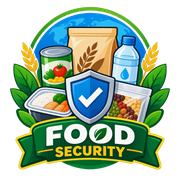
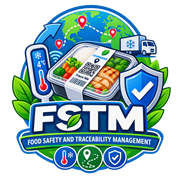
Perbaikan Istilah

diff --git a/index.html b/index.html
@@ -6,14 +6,14 @@
     <link rel="apple-touch-icon" sizes="180x180" href="/apple-touch-icon.png" />
     <meta name="viewport" content="width=device-width, initial-scale=1.0, viewport-fit=cover" />
     <meta name="theme-color" content="#047857" />
-    <meta name="description" content="FSOS — Food Security & Traceability Operations System" />
+    <meta name="description" content="FSTM — Food Safety & Traceability Management" />
     <link rel="preconnect" href="https://fonts.googleapis.com" />
     <link rel="preconnect" href="https://fonts.gstatic.com" crossorigin />
     <link
       href="https://fonts.googleapis.com/css2?family=Plus+Jakarta+Sans:ital,wght@0,400;0,500;0,600;0,700;0,800&family=JetBrains+Mono:wght@400;500;600&display=swap"
       rel="stylesheet"
     />
-    <title>FSOS · Food Security & Traceability</title>
+    <title>FSTM · Food Safety & Traceability Management</title>
   </head>
   <body>
     <div id="app"></div>

diff --git a/src/components/layout/AppSidebar.vue b/src/components/layout/AppSidebar.vue
@@ -39,8 +39,8 @@ function isActive(to: string) {
     <!-- Brand -->
     <div class="flex h-16 shrink-0 items-center gap-3 px-4">
       <img
-        src="/logo-fsos.png"
-        alt="Logo Food Security"
+        src="/logo-fstm.png"
+        alt="Logo Food Safety & Traceability Management"
         class="size-11 shrink-0 object-contain drop-shadow-md"
       />
       <div v-if="!collapsed" class="min-w-0 animate-fade-in">
@@ -48,7 +48,7 @@ function isActive(to: string) {
           {{ env.appName }}
         </p>
         <p class="truncate text-[11px] text-surface-500 dark:text-surface-400">
-          Food Security & Traceability
+          Food Safety & Traceability Management
         </p>
       </div>
     </div>

diff --git a/src/views/auth/LoginView.vue b/src/views/auth/LoginView.vue
@@ -85,8 +85,8 @@ async function submit() {
     <div class="animate-fade-up relative w-full max-w-md">
       <div class="mb-7 flex flex-col items-center text-center">
         <img
-          src="/logo-fsos.png"
-          alt="Logo Food Security"
+          src="/logo-fstm.png"
+          alt="Logo Food Safety & Traceability Management"
           class="mb-4 size-32 object-contain drop-shadow-2xl"
         />
         <h1 class="text-2xl font-extrabold tracking-tight text-white">{{ env.appName }}</h1>

diff --git a/src/views/DeliveriesView.vue b/src/views/DeliveriesView.vue
@@ -242,7 +242,7 @@ onMounted(() => void loadOptions())
   <div>
     <PageHeader
       title="Pengiriman Aktif"
-      description="Buat manifest, scan/loading ke armada, pantau perjalanan, dan selesaikan delivery sesuai alur distribusi FSOS."
+      description="Buat manifest, scan/loading ke armada, pantau perjalanan, dan selesaikan delivery sesuai alur distribusi FSTM."
       icon="lucide:truck"
       tag="Delivery.Read"
     >

diff --git a/src/config/env.ts b/src/config/env.ts
@@ -6,8 +6,8 @@ const useProxy = import.meta.env.VITE_USE_PROXY
   : import.meta.env.DEV
 
 export const env = {
-  appName: 'FSOS',
-  appLongName: 'Food Security & Traceability Operations System',
+  appName: 'FSTM',
+  appLongName: 'Food Safety & Traceability Management',
   apiOrigin: rawOrigin || 'same-origin',
   apiPrefix: rawPrefix,
   /** Tanpa origin eksplisit, production memakai reverse proxy same-origin di /api. */

diff --git a/src/components/layout/AppTopbar.vue b/src/components/layout/AppTopbar.vue
@@ -26,7 +26,7 @@ const currentTitle = computed(() => {
   const match = navigation
     .flatMap((section) => section.items)
     .find((item) => (item.to === '/' ? route.path === '/' : route.path.startsWith(item.to)))
-  return (route.meta.title as string) ?? match?.label ?? 'FSOS'
+  return (route.meta.title as string) ?? match?.label ?? 'FSTM'
 })
 
 const section = computed(

diff --git a/src/router/index.ts b/src/router/index.ts
@@ -189,7 +189,7 @@ router.beforeEach(async (to) => {
 
 router.afterEach((to) => {
   const title = (to.meta.title as string) ?? ''
-  document.title = title ? `${title} · FSOS` : 'FSOS · Food Security & Traceability'
+  document.title = title ? `${title} · FSTM` : 'FSTM · Food Safety & Traceability Management'
 })
 
 export default router

diff --git a/README.md b/README.md
@@ -1,6 +1,6 @@
 # vue-food-security
 
-Frontend Vue 3 untuk FSOS (Food Security & Traceability Operations System).
+Frontend Vue 3 untuk FSTM (Food Safety & Traceability Management).
 
 ## Backend contract
 
